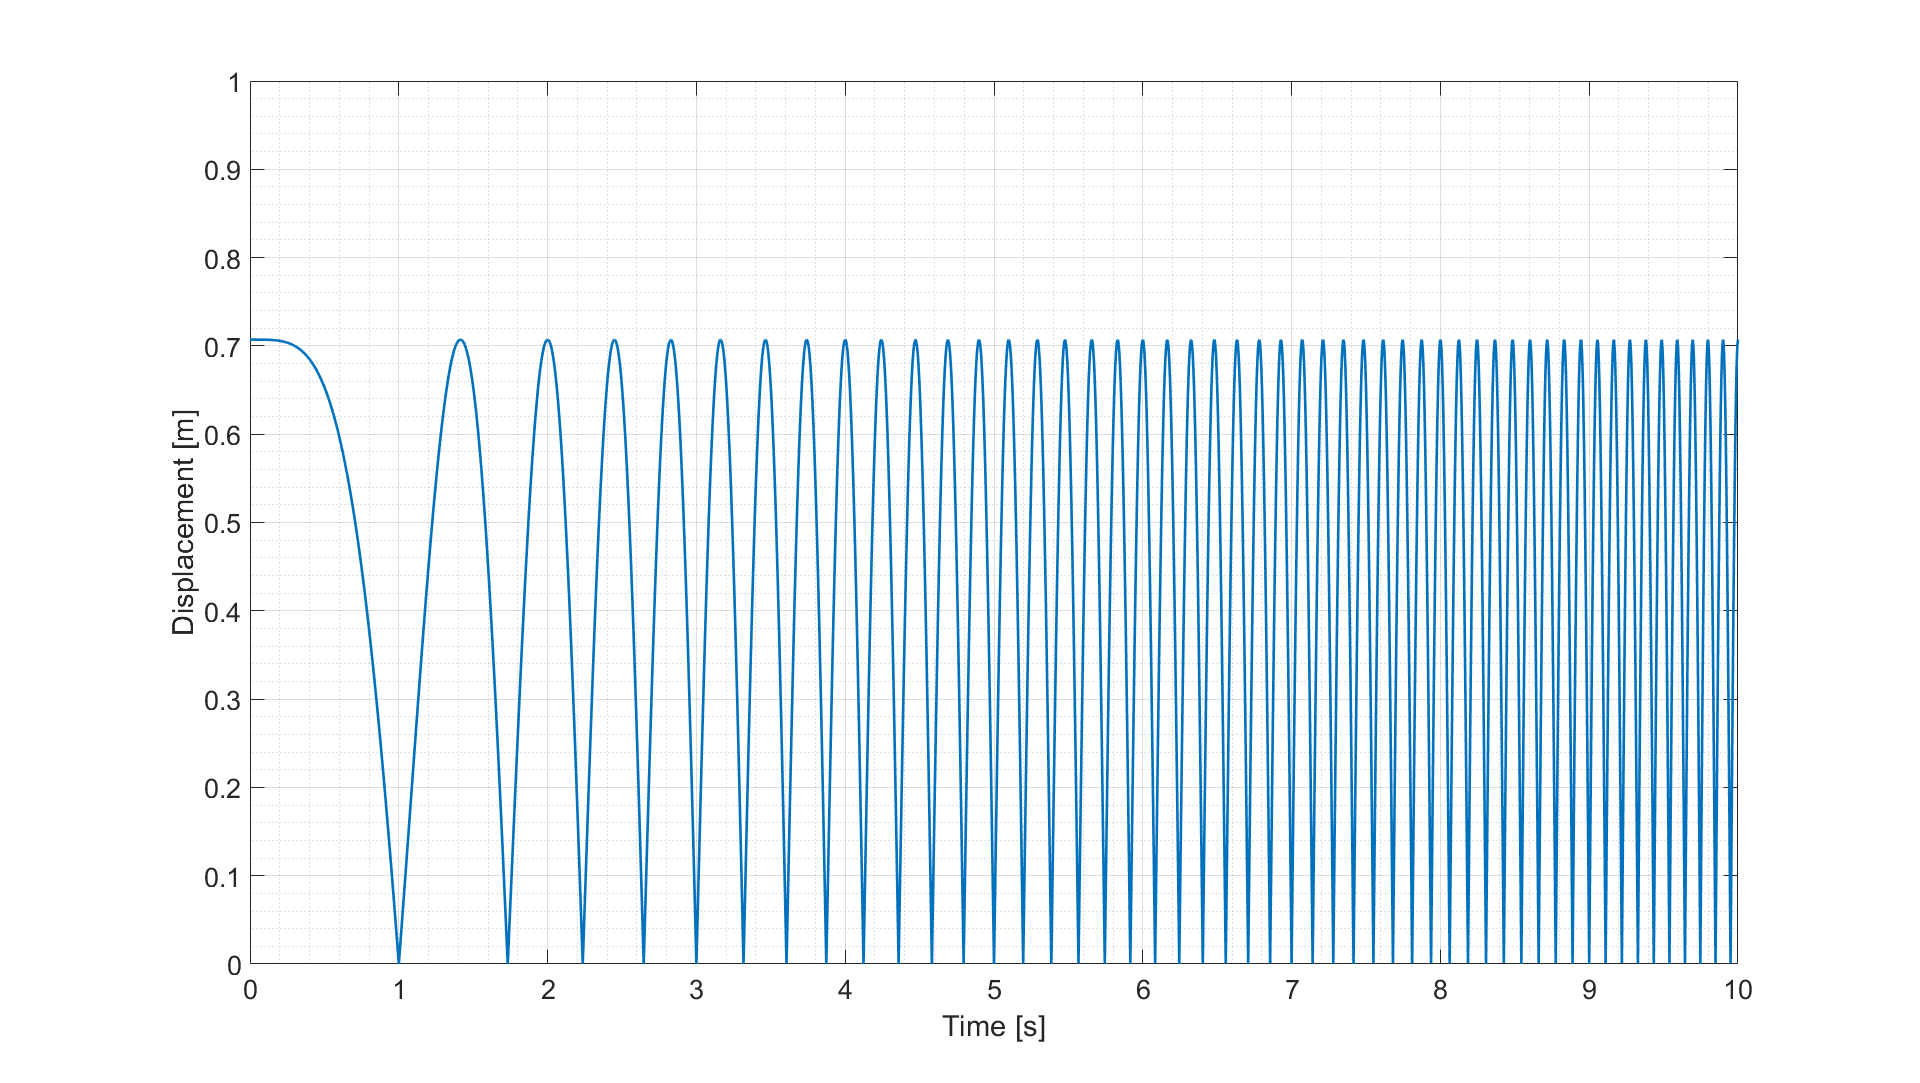
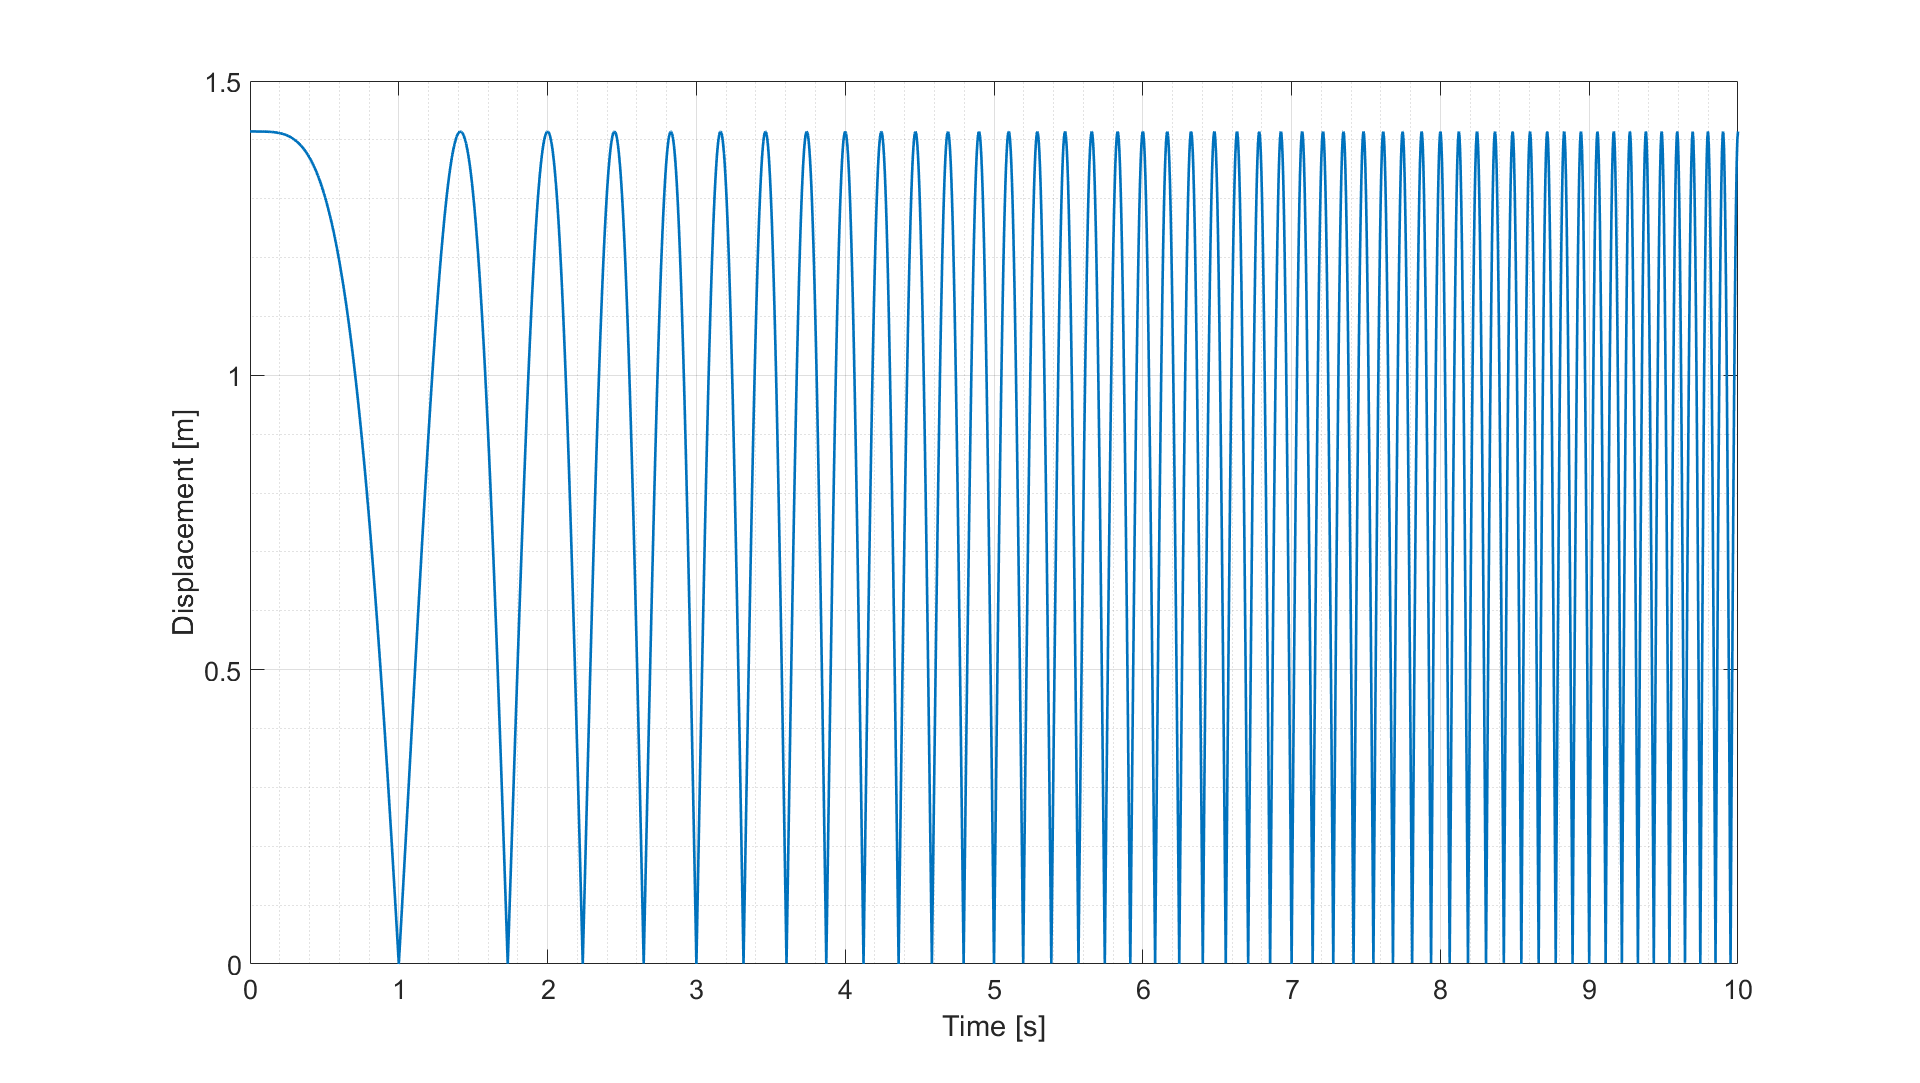
chirp squared fix

diff --git a/exam 02/chirp/plot_chirp.m b/exam 02/chirp/plot_chirp.m
@@ -24,7 +24,7 @@ grid minor;
 ylabel 'Displacement [m]';
 xlabel 'Time [s]';
 xlim([0 param_simtime]);
-ylim([0 1]);
+ylim([0 1.5]);
 set(gca, 'FontSize', 20);
 
 figure('Name', 'pwm test');
